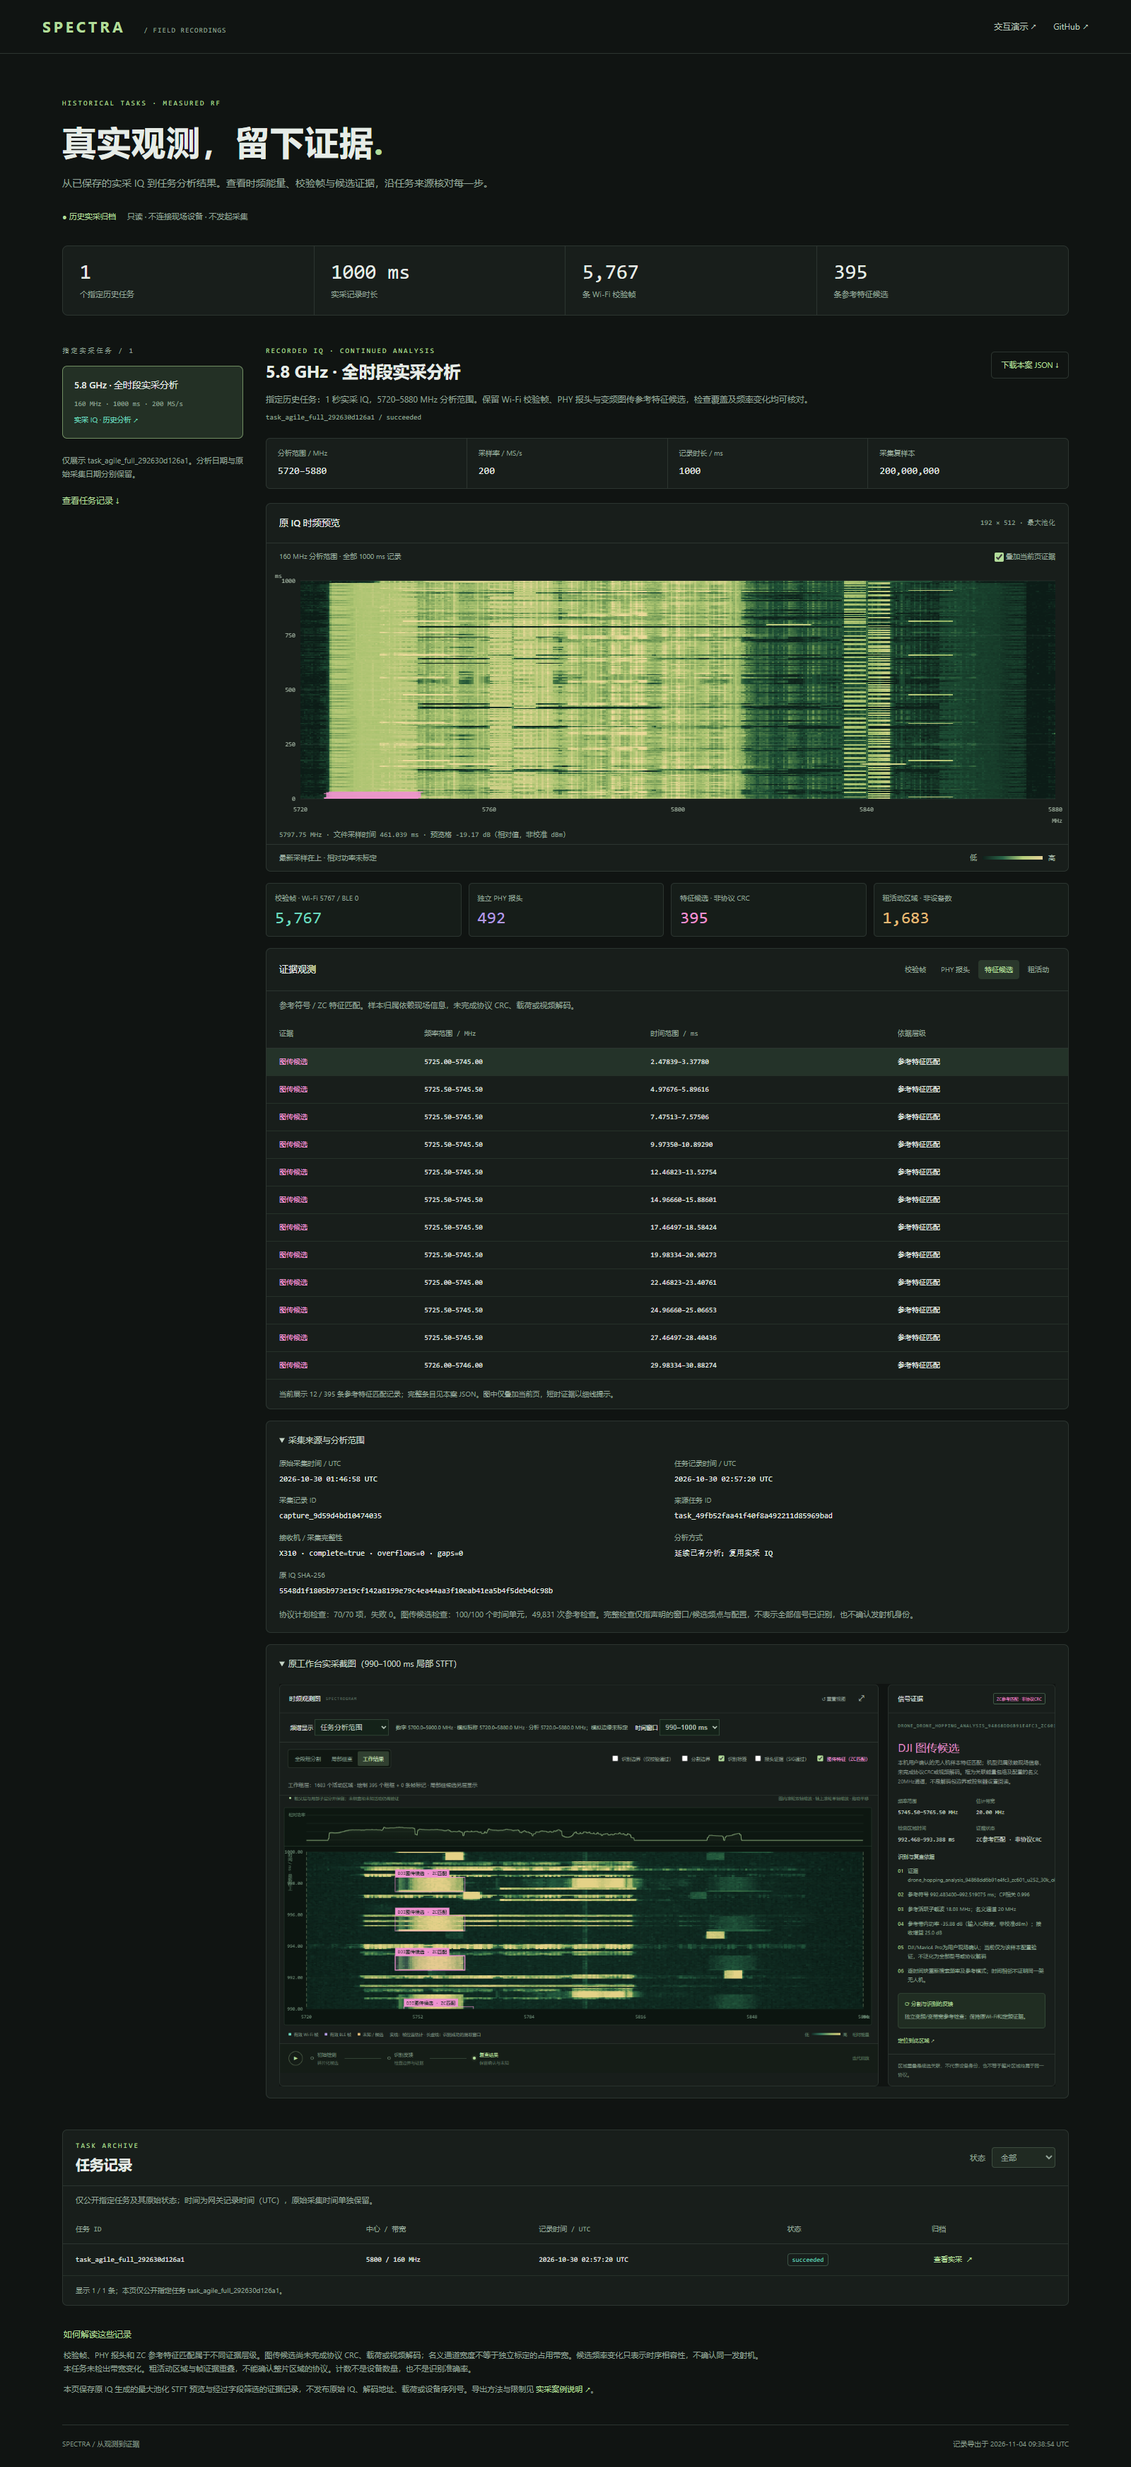
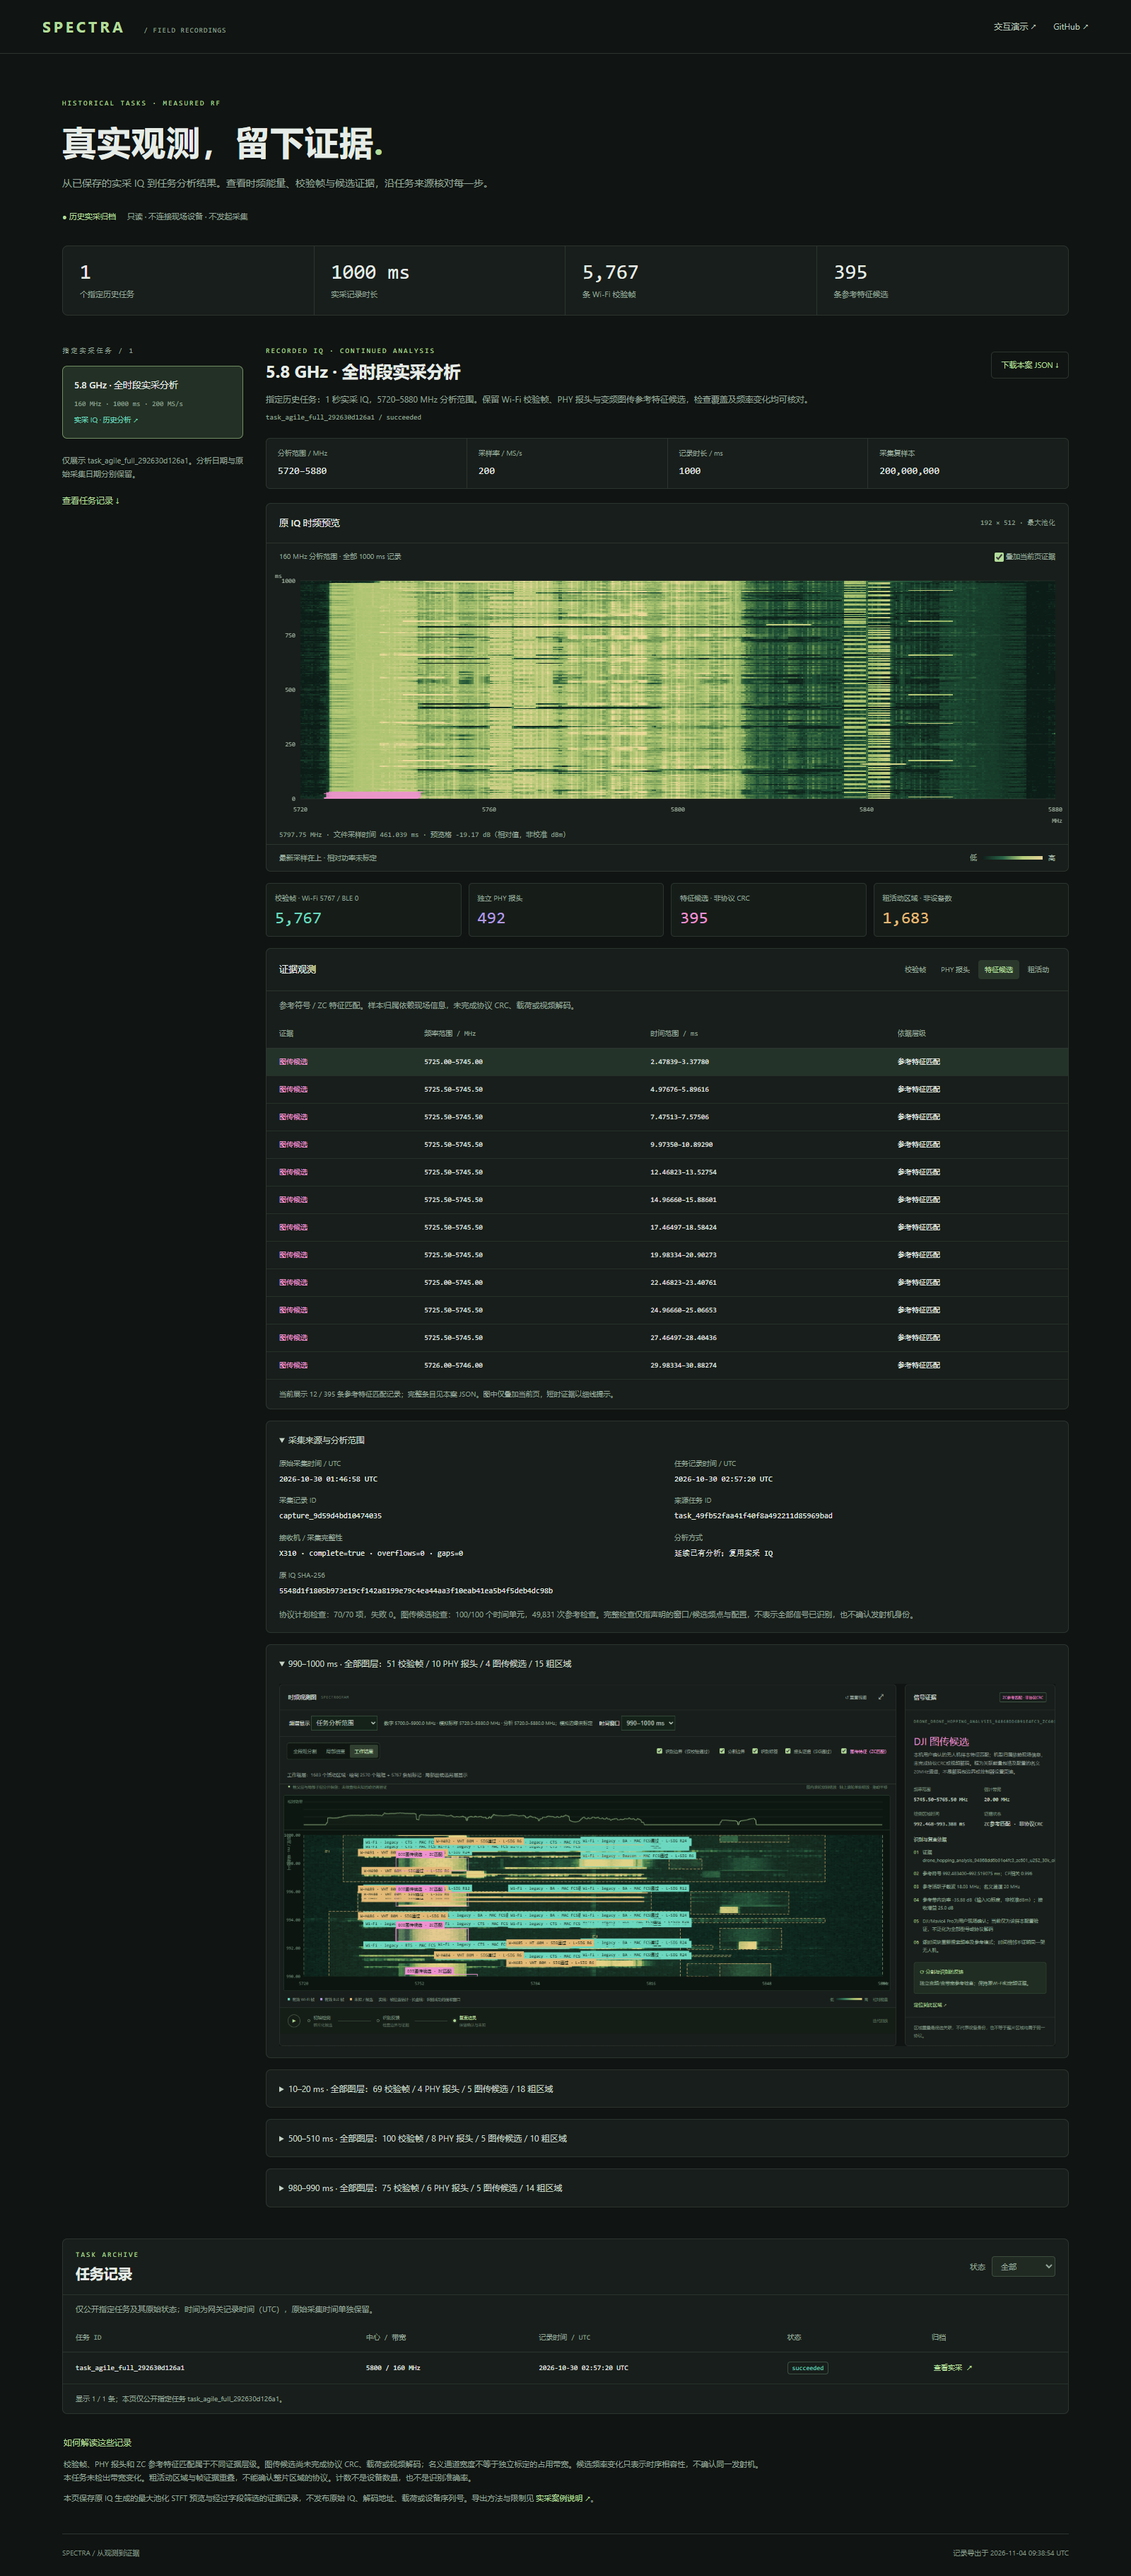
docs: refresh measured task screenshots with all evidence layers

diff --git a/dist/measured/index.html b/dist/measured/index.html
@@ -24,7 +24,10 @@
         <div class="evidence-counts" id="evidence-counts"></div>
         <div class="panel evidence-panel"><div class="panel-heading"><h3>证据观测</h3><div class="filters" id="evidence-filters"><button data-filter="verified" class="active">校验帧</button><button data-filter="header">PHY 报头</button><button data-filter="signature">特征候选</button><button data-filter="unknown">粗活动</button></div></div><p class="evidence-note" id="evidence-note"></p><div class="table-scroll"><table><thead><tr><th>证据</th><th>频率范围 / MHz</th><th>时间范围 / ms</th><th>依据层级</th></tr></thead><tbody id="evidence-rows"></tbody></table></div><p class="table-note" id="evidence-page"></p></div>
         <details class="panel provenance" open><summary>采集来源与分析范围</summary><dl id="provenance"></dl><p id="coverage-note"></p></details>
-        <details class="panel original-ui" open><summary>原工作台实采截图（990–1000 ms 局部 STFT）</summary><a id="original-link" target="_blank" rel="noopener"><img id="original-image" alt="指定任务 990–1000 ms 的原 IQ 局部时频图与图传参考特征证据" loading="lazy"></a></details>
+        <details class="panel original-ui" open><summary>990–1000 ms · 全部图层：51 校验帧 / 10 PHY 报头 / 4 图传候选 / 15 粗区域</summary><a id="original-link" target="_blank" rel="noopener"><img id="original-image" alt="指定任务 990–1000 ms 的全部校验帧、PHY 报头、图传特征与粗分割图层" loading="lazy"></a></details>
+        <details class="panel original-ui"><summary>10–20 ms · 全部图层：69 校验帧 / 4 PHY 报头 / 5 图传候选 / 18 粗区域</summary><a href="images/measured-agile-10.png" target="_blank" rel="noopener"><img src="images/measured-agile-10.png" alt="前段 10–20 ms 完整图层实采截图" loading="lazy"></a></details>
+        <details class="panel original-ui"><summary>500–510 ms · 全部图层：100 校验帧 / 8 PHY 报头 / 5 图传候选 / 10 粗区域</summary><a href="images/measured-agile-500.png" target="_blank" rel="noopener"><img src="images/measured-agile-500.png" alt="中段 500–510 ms 完整图层实采截图" loading="lazy"></a></details>
+        <details class="panel original-ui"><summary>980–990 ms · 全部图层：75 校验帧 / 6 PHY 报头 / 5 图传候选 / 14 粗区域</summary><a href="images/measured-agile-980.png?v=complete-layers" target="_blank" rel="noopener"><img src="images/measured-agile-980.png?v=complete-layers" alt="末段 980–990 ms 完整图层实采截图" loading="lazy"></a></details>
       </section>
     </div>
     <section class="panel history-panel" id="history"><div class="panel-heading"><div><p class="eyebrow">TASK ARCHIVE</p><h2>任务记录</h2></div><label class="history-status">状态 <select id="history-filter"><option value="all">全部</option><option value="succeeded">succeeded</option><option value="partial">partial</option></select></label></div><p class="evidence-note">仅公开指定任务及其原始状态；时间为网关记录时间（UTC），原始采集时间单独保留。</p><div class="table-scroll"><table><thead><tr><th>任务 ID</th><th>中心 / 带宽</th><th>记录时间 / UTC</th><th>状态</th><th>归档</th></tr></thead><tbody id="history-rows"></tbody></table></div><p class="table-note" id="history-summary"></p></section>
@@ -32,6 +35,6 @@
     <footer><span>SPECTRA / 从观测到证据</span><span id="exported-at"></span></footer>
     <p id="load-error" role="alert" hidden></p>
   </main>
-  <script src="archive.js?v=agile-full"></script>
+  <script src="archive.js?v=complete-layers"></script>
 </body>
 </html>

diff --git a/dist/measured/archive.js b/dist/measured/archive.js
@@ -61,8 +61,8 @@ async function loadCase() {
   const plans = current.protocol_coverage.plans;
   const hopping = current.hopping_evidence || [];
   $('#coverage-note').textContent = `协议计划检查：${plans.map(plan => `${plan.completed_units}/${plan.total_units} 项，失败 ${plan.failed_units}`).join('；')}。图传候选检查：${hopping.map(e => `${e.coverage.completed_units}/${e.coverage.total_units} 个时间单元，${format(e.coverage.reference_checks)} 次参考检查`).join('；')}。完整检查仅指声明的窗口/候选频点与配置，不表示全部信号已识别，也不确认发射机身份。`;
-  $('#original-image').src = 'images/' + current.screenshot;
-  $('#original-link').href = 'images/' + current.screenshot;
+  $('#original-image').src = 'images/' + current.screenshot + '?v=complete-layers';
+  $('#original-link').href = 'images/' + current.screenshot + '?v=complete-layers';
   renderEvidence();
   $('#case-detail').setAttribute('aria-busy', 'false');
 }

diff --git a/README.md b/README.md
@@ -12,7 +12,7 @@
 
 [**查看历史实采任务 ↗**](https://zh-zehui.github.io/spectra-console-ui/measured/) · [交互演示](https://zh-zehui.github.io/spectra-console-ui/) · [边缘端源码](edge/) · [Jetson 部署](docs/edge-deployment.md)
 
-![task_agile_full_292630d126a1：990–1000 ms 原 IQ 局部时频图与变频图传特征候选](dist/measured/images/measured-agile-990.png)
+![task_agile_full_292630d126a1：990–1000 ms 全图层实采截图](dist/measured/images/measured-agile-990.png?v=complete-layers)
 
 </div>
 
@@ -34,7 +34,29 @@ SPECTRA 是面向频谱分析的独立可视化操作层，将任务描述、时
 
 **同一任务 980–990 ms 的局部 STFT，可与上方 990–1000 ms 对照：**
 
-![task_agile_full_292630d126a1：980–990 ms 原 IQ 局部时频图](dist/measured/images/measured-agile-980.png)
+![task_agile_full_292630d126a1：980–990 ms 全图层实采截图](dist/measured/images/measured-agile-980.png?v=complete-layers)
+
+四张截图均在对应局部 STFT 加载完成后截取，开启校验帧、PHY 报头、图传候选和粗分割图层，并逐项核对当前窗口的证据：
+
+| 时间窗口 | Wi-Fi 校验帧 | PHY 报头 | 图传候选 | 粗活动区域 |
+| --- | --- | --- | --- | --- |
+| 10–20 ms | 69 | 4 | 5 | 18 |
+| 500–510 ms | 100 | 8 | 5 | 10 |
+| 980–990 ms | 75 | 6 | 5 | 14 |
+| 990–1000 ms | 51 | 10 | 4 | 15 |
+
+<details>
+<summary>查看前段与中段的完整图层截图</summary>
+
+**10–20 ms：**
+
+![前段 10–20 ms 的全部识别与分割图层](dist/measured/images/measured-agile-10.png)
+
+**500–510 ms：**
+
+![中段 500–510 ms 的全部识别与分割图层](dist/measured/images/measured-agile-500.png)
+
+</details>
 
 实采页可查看这一个任务的完整时频预览、筛选证据、下载公开 JSON，并核对采集时间与来源。局部截图从原 IQ 读取相应窗口；页面预览覆盖完整 1000 ms。
 
